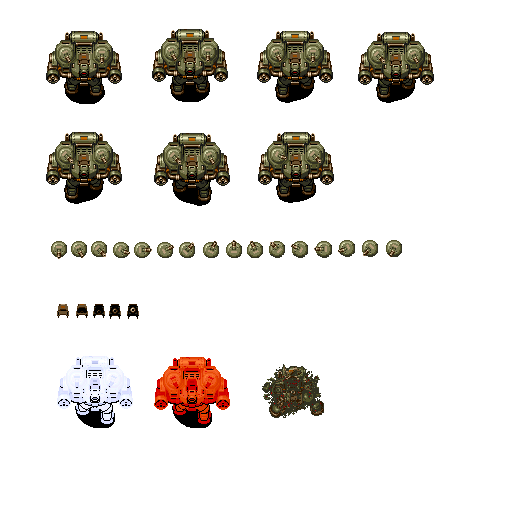
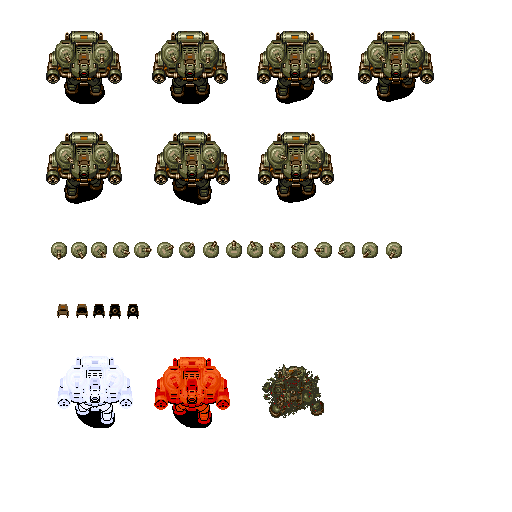
solved robot bugs improved extra animation system

diff --git a/GunBird - Coded Dreams/Enemy_Humanoide_Robot.cpp b/GunBird - Coded Dreams/Enemy_Humanoide_Robot.cpp
@@ -16,37 +16,37 @@ Enemy_Humanoide_Robot::Enemy_Humanoide_Robot(int x, int y) : Enemy(x, y)
 {
 	sprites = App->textures->Load("assets/enemies/Humanoide_Robot.png");
 	
-	anim_rightBack.PushBack({ 258, 31, 75, 72 });//3
-	anim_rightBack.PushBack({ 259, 132, 76, 71 });//7
-	anim_rightBack.PushBack({ 46, 31, 75, 72 });//1
+	anim_rightBack.PushBack({ 257, 31, 76, 73 });//3
+	anim_rightBack.PushBack({ 258, 132, 76, 73 });//7
+	anim_rightBack.PushBack({ 46, 31, 76, 73 });//1
 	anim_rightBack.speed = 0.15f;
 	anim_rightBack.loop = false;
 
-	rightLeg.PushBack({ 258, 31, 75, 72 });//3
+	rightLeg.PushBack({ 257, 31, 76, 73 });//3
 
-	anim_leftBack.PushBack({ 154, 133, 76, 72 });//6
-	anim_leftBack.PushBack({ 46, 31, 75, 72 });//1
-	anim_leftBack.PushBack({ 259, 132, 76, 71 });//7
+	anim_leftBack.PushBack({ 154, 132, 76, 73 });//6
+	anim_leftBack.PushBack({ 46, 31, 76, 73 });//1
+	anim_leftBack.PushBack({ 258, 132, 76, 73 });//7
 	anim_leftBack.speed = 0.15f;
 	anim_leftBack.loop = false;
 
-	sprint.PushBack({ 154, 133, 76, 72 });//6
-	sprint.PushBack({ 46, 31, 75, 72 });//1
-	sprint.PushBack({ 259, 132, 76, 71 });//7
-	sprint.PushBack({ 258, 31, 75, 72 });//3
-	sprint.PushBack({ 258, 31, 75, 72 });//3
-	sprint.PushBack({ 258, 31, 75, 72 });//3
-	sprint.PushBack({ 258, 31, 75, 72 });//3
-	sprint.PushBack({ 258, 31, 75, 72 });//3
-	sprint.PushBack({ 259, 132, 76, 71 });//7
-	sprint.PushBack({ 46, 31, 75, 72 });//1
-	sprint.PushBack({ 154, 133, 76, 72 });//6
-	sprint.PushBack({ 154, 133, 76, 72 });//6
-	sprint.PushBack({ 154, 133, 76, 72 });//6
-	sprint.PushBack({ 154, 133, 76, 72 });//6
+	sprint.PushBack({ 154, 132, 76, 73 });//6
+	sprint.PushBack({ 46, 31, 76, 73 });//1
+	sprint.PushBack({ 258, 132, 76, 73 });//7
+	sprint.PushBack({ 257, 31, 76, 73 });//3
+	sprint.PushBack({ 257, 31, 76, 73 });//3
+	sprint.PushBack({ 257, 31, 76, 73 });//3
+	sprint.PushBack({ 257, 31, 76, 73 });//3
+	sprint.PushBack({ 257, 31, 76, 73 });//3
+	sprint.PushBack({ 258, 132, 76, 73 });//7
+	sprint.PushBack({ 46, 31, 76, 73 });//1
+	sprint.PushBack({ 154, 132, 76, 73 });//6
+	sprint.PushBack({ 154, 132, 76, 73 });//6
+	sprint.PushBack({ 154, 132, 76, 73 });//6
+	sprint.PushBack({ 154, 132, 76, 73 });//6
 	sprint.speed = 0.30f;
 
-	leftLeg.PushBack({ 154, 133, 76, 72 });//6
+	leftLeg.PushBack({ 154, 132, 76, 73 });//6
 
 	path.PushBack({ 0.0f, 0.0f }, 200, &rightLeg); //right leg in front
 	path.PushBack({ 0.0f, -0.65f }, 18, &anim_rightBack); //move right leg to the back
@@ -69,18 +69,18 @@ Enemy_Humanoide_Robot::Enemy_Humanoide_Robot(int x, int y) : Enemy(x, y)
 	angles[0] = { 134, 242, 18, 16 }; // 0
 	angles[1] = { 157, 242, 17, 16 }; // 30
 	angles[2] = { 179, 242, 16, 16 }; // 45
-	angles[3] = { 203, 242, 16, 17 }; // 60
-	angles[4] = { 226, 242, 16, 18 }; // 90
-	angles[5] = { 247, 242, 16, 17 }; // 120
-	angles[6] = { 269, 242, 16, 17 }; // 135
-	angles[7] = { 292, 242, 17, 17 }; // 150
-	angles[8] = { 316, 242, 18, 17 }; // 180
-	angles[9] = { 339, 241, 17, 17 }; // 210
-	angles[10] = { 362, 241, 16, 17 }; // 225
-	angles[11] = { 386, 241, 16, 17 }; // 240
-	angles[12] = { 51, 241, 16, 18 }; // 270
-	angles[13] = { 71, 241, 16, 17 }; // 300
-	angles[14] = { 91, 241, 16, 16 }; // 315
+	angles[3] = { 203, 241, 16, 17 }; // 60
+	angles[4] = { 226, 240, 16, 18 }; // 90
+	angles[5] = { 247, 241, 16, 17 }; // 120
+	angles[6] = { 269, 242, 16, 16 }; // 135
+	angles[7] = { 292, 242, 17, 16 }; // 150
+	angles[8] = { 316, 242, 18, 16 }; // 180
+	angles[9] = { 339, 242, 17, 16 }; // 210
+	angles[10] = { 362, 242, 16, 16 }; // 225
+	angles[11] = { 386, 242, 16, 17 }; // 240
+	angles[12] = { 51, 242, 16, 18 }; // 270
+	angles[13] = { 71, 242, 16, 17 }; // 300
+	angles[14] = { 91, 242, 16, 16 }; // 315
 	angles[15] = { 113, 242, 17, 16 }; // 330
 
 	cannon_pos[0].x = 12;
@@ -138,7 +138,7 @@ void Enemy_Humanoide_Robot::ExtraAnim()
 		}
 		else
 		{
-			App->render->Blit(sprites, App->render->camera.x + position.x + cannon_pos[i].x, App->render->camera.y + position.y + cannon_pos[i].y, &angles[angle / 30 + (angle / 100) + 1]);
+			App->render->Blit(sprites, (App->render->camera.x + position.x + cannon_pos[i].x), (App->render->camera.y + position.y + cannon_pos[i].y) - ((vector.y < 0) ? (angles[angle / 30 + (angle / 100) + 1].h - 16) : 0), &angles[angle / 30 + (angle / 100) + 1]);
 		}
 	}
 }

diff --git a/GunBird - Coded Dreams/Enemy.cpp b/GunBird - Coded Dreams/Enemy.cpp
@@ -26,7 +26,11 @@ void Enemy::Draw(SDL_Texture* sprites)
 		collider->SetPos(App->render->camera.x + position.x, App->render->camera.y + position.y);
 
 	if (animation != nullptr)
+	{
 		App->render->Blit(sprites, App->render->camera.x + position.x, App->render->camera.y + position.y, &(animation->GetCurrentFrame()));
+		if (extra_anim && lives > 0)
+			ExtraAnim();
+	}
 }
 
 void Enemy::OnCollision(Collider* collider)

diff --git a/GunBird - Coded Dreams/ModuleEnemies.cpp b/GunBird - Coded Dreams/ModuleEnemies.cpp
@@ -67,9 +67,6 @@ update_status ModuleEnemies::Update()
 	for(uint i = 0; i < MAX_ENEMIES; ++i)
 		if(enemies[i] != nullptr) enemies[i]->Draw(enemies[i]->sprites);
 
-	for (uint i = 0; i < MAX_ENEMIES; ++i)
-		if (enemies[i] != nullptr && enemies[i]->extra_anim && enemies[i]->lives > 0) enemies[i]->ExtraAnim();
-
 	return UPDATE_CONTINUE;
 }
 
